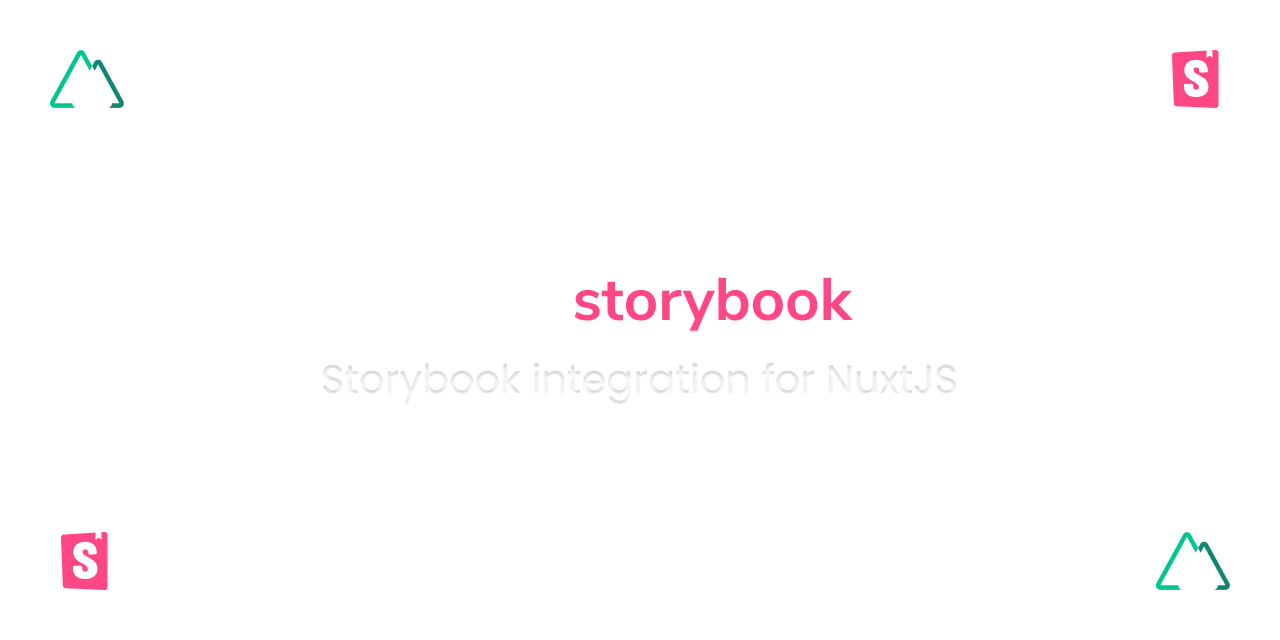
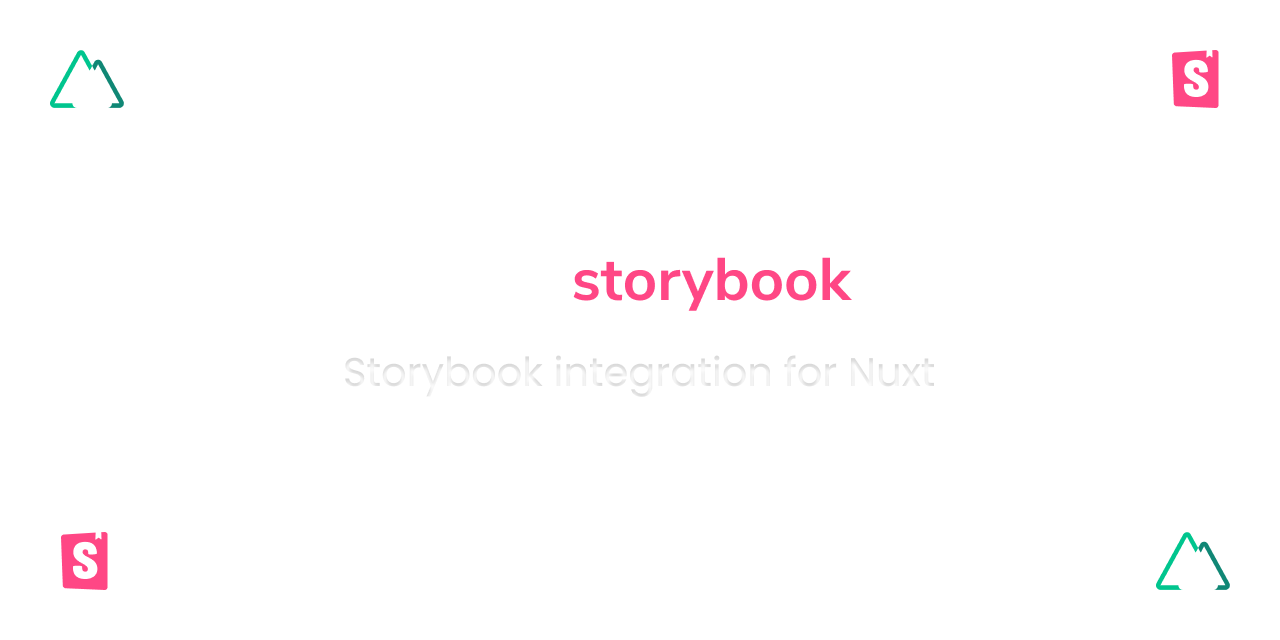
docs: update preview card

Changed region(s): [[0.4375, 0.4062, 0.6875, 0.5312], [0.25, 0.5625, 0.75, 0.625]]

diff --git a/README.md b/README.md
@@ -1,4 +1,4 @@
-[![@nuxtjs/storybook](https://user-images.githubusercontent.com/904724/89059288-3607f100-d361-11ea-8313-6ebc702b4fa4.png)](https://storybook.nuxtjs.org)
+[![@nuxtjs/storybook](https://storybook.nuxtjs.org/preview.png)](https://storybook.nuxtjs.org)
 
 # @nuxtjs/storybook
 
